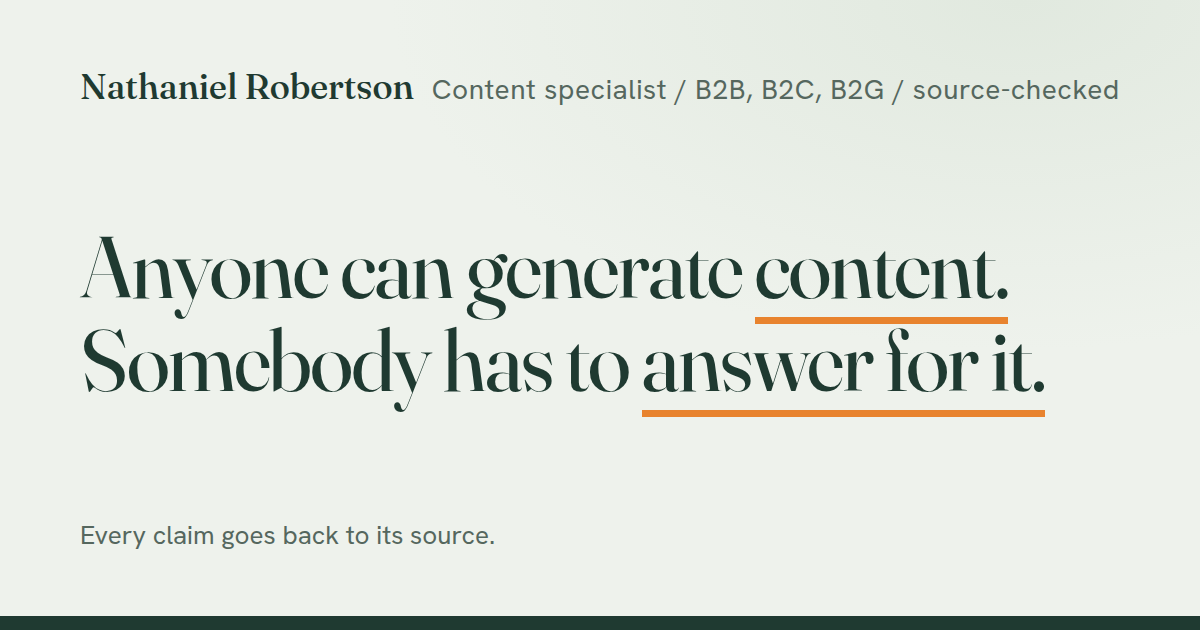
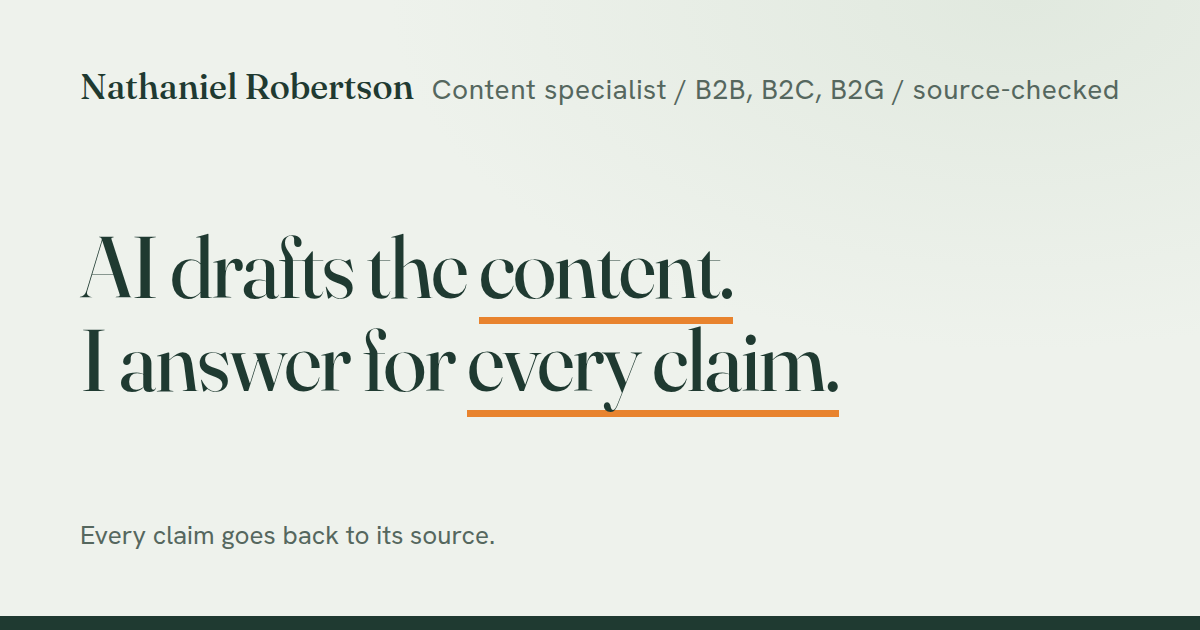
Hero: lead with the method (AI drafts, I answer), say who it is for, one proof, one next step
- Headline now "AI drafts the content. I answer for every claim.", replacing a first line that read as anti-LLM
- Lede names the audience (B2B, B2C, B2G teams) and keeps the existing method sentence; the typography note is removed
- One proof line made only of facts already on the page (four retained accounts in three countries; five concept pages, three with evidence pins); no results claimed
- One primary button, "Check a draft of yours", opens Lexiphon's draft check empty; the content audit stays as the secondary link
- Problem block no longer refers back to the old headline
- Social card re-rendered with the new headline (source in tools/og.html); image alt text, llms files, and sitemap caption updated
- "My voice" in Lexiphon now measures the intro paragraphs only, so it does not calibrate on the new hero draft

Claude-Session: https://claude.ai/code/session_013b56ZV5aXfWTKv9yQP1ema

Changed region(s): [[0.0617, 0.3619, 0.8942, 0.6635]]

diff --git a/index.html b/index.html
@@ -15,14 +15,14 @@
 <meta property="og:image:width" content="1200">
 <meta property="og:image:height" content="630">
 <meta property="og:image:type" content="image/png">
-<meta property="og:image:alt" content="Nathaniel Robertson, content specialist. Anyone can generate content. Somebody has to answer for it.">
+<meta property="og:image:alt" content="Nathaniel Robertson, content specialist. AI drafts the content. I answer for every claim.">
 <meta property="og:title" content="Nathaniel Robertson, content specialist">
 <meta property="og:description" content="Content specialist for source-checked B2B, B2C, and B2G writing, AI editing and governance, and content audits. Every claim goes back to its source.">
 <meta name="twitter:card" content="summary_large_image">
 <meta name="twitter:title" content="Nathaniel Robertson, content specialist">
 <meta name="twitter:description" content="Content specialist for source-checked B2B, B2C, and B2G writing, AI editing and governance, and content audits. Every claim goes back to its source.">
 <meta name="twitter:image" content="https://nrr-hash.github.io/Lexiphon/images/og.png">
-<meta name="twitter:image:alt" content="Nathaniel Robertson, content specialist. Anyone can generate content. Somebody has to answer for it.">
+<meta name="twitter:image:alt" content="Nathaniel Robertson, content specialist. AI drafts the content. I answer for every claim.">
 <script type="application/ld+json">{
  "@context": "https://schema.org",
  "@graph": [
@@ -405,7 +405,7 @@
 <meta name="mobile-web-app-capable" content="yes">
 <meta name="apple-mobile-web-app-title" content="Lexiphon">
 <meta name="referrer" content="strict-origin-when-cross-origin">
-<link rel="stylesheet" href="css/site.css?v=5566f63b">
+<link rel="stylesheet" href="css/site.css?v=140bd6d4">
 <link rel="stylesheet" href="css/studio.css?v=570e4f25" media="print" onload="this.media='all';window.dispatchEvent(new Event('resize'))">
 <noscript><link rel="stylesheet" href="css/studio.css?v=570e4f25"></noscript>
 </head>
@@ -425,15 +425,17 @@
 
 <main id="main" tabindex="-1">
 <div class="hero">
-  <h1 class="headline" id="headline" aria-label="Anyone can generate content. Somebody has to answer for it.">
-    <span class="line" data-ramp>Anyone can generate content.</span>
-    <span class="line" data-ramp data-seat="3">Somebody has to answer for it.</span>
+  <h1 class="headline" id="headline" aria-label="AI drafts the content. I answer for every claim.">
+    <span class="line" data-ramp>AI drafts the content.</span>
+    <span class="line" data-ramp data-seat="2">I answer for every claim.</span>
   </h1>
-  <p class="weight-note">In these two lines, type weight follows sentence weight: each line gets heavier towards the words that carry it, and a rule marks the seat.</p><div class="opening">
-    <p class="opening-lede">At heart, I’m a copywriter. In practice, I devise, produce, and scale digital content with frontier and open-weight models that I configure and check myself. The model learns your voice. I make sure it tells the truth.</p>
+  <div class="opening">
+    <p class="opening-lede">I’m a content specialist for B2B, B2C, and B2G teams. I devise, produce, and scale digital content with frontier and open-weight models that I configure and check myself. The model learns your voice.</p>
+    <p class="hero-proof">Currently on four retained accounts, in three countries. The concept pages below show the method, and three of them tie each claim to the note that backs it.</p>
+    <p class="hero-cta"><a class="btn" href="#studio" data-lx="check">Check a draft of yours</a><a class="hero-alt" href="mailto:nathan667@gmail.com?subject=Content%20audit">or ask for a content audit</a></p>
     <div class="dx">
       <p class="dx-kicker">The problem, in 2026</p>
-      <p class="dx-pull">Anyone can generate content, you say. Correct. The problem is that too little of it is worth reading, because “universal output” comes out too smooth and too generic to stick.</p>
+      <p class="dx-pull">Anyone can generate content now. The problem is that too little of it is worth reading, because “universal output” comes out too smooth and too generic to stick.</p>
       <div class="dx-grid">
         <div class="dx-col"><h2>How it sounds</h2><p>Sentences lack burst. The same words turn up everywhere. The tone is flat. “It’s not this, it’s that” is a construction LLMs lean on far too often.</p><h2>Whether it is true</h2><p>Some models invent facts more than others, and your claims quietly stop being true.</p></div>
         <div class="dx-col"><h2>Who it is for</h2><p>Pages swell into keyword nests built for ranking, read mostly by other machines scraping by. Lorem ipsum used to hold a page until the real words arrived. On too many pages now, the filler is the words. Look closer, and the same narrative patterns are everywhere.</p></div>
@@ -867,7 +869,7 @@
 <script src="js/lexicon.js?v=7a0beba2" defer></script>
 <script src="js/engine.js?v=fe467452" defer></script>
 <script src="js/brand.js?v=66087800" defer></script>
-<script src="js/studio.js?v=06500c46" defer></script>
+<script src="js/studio.js?v=82323bc8" defer></script>
 <script src="js/pwa.js?v=4f5d0457" defer></script>
 </body>
 </html>

diff --git a/js/studio.js b/js/studio.js
@@ -12,7 +12,7 @@ var prof = {tone:B.toneOf("Caregiver"), lead:"auto", person:"auto", rhythm:"auto
 
 /* "My voice": formality and enthusiasm measured from the opening of this page; humour and respect set by ear */
 function myVoice(){
-  var src = [].slice.call(document.querySelectorAll(".opening-lede, .intro p")).map(function(p){ return p.textContent; }).join(" ").replace(/\s+/g, " ");
+  var src = [].slice.call(document.querySelectorAll(".intro p")).map(function(p){ return p.textContent; }).join(" ").replace(/\s+/g, " ");
   var m = src ? B.measure(src) : null;
   return {tone:{casual:m ? m.tone.casual : 45, funny:15, irreverent:15, enthusiastic:m ? m.tone.enthusiastic : 25}, lead:"proof", person:"we", rhythm:"varied", words:"none", gaps:"flag", measured:m};
 }
@@ -189,9 +189,11 @@ $("lxReport").addEventListener("click", function(e){ if(!(e.target.closest && e.
   drawStart(); drawStartSoft(); $("lxNow").textContent = "Learnt from your draft: formality, enthusiasm, point of view, and rhythm. Humour and respect stay where you set them."; drawProfile(); run(); });
 
 /* ---------- mode ---------- */
-function setMode(m){ mode = m; $("lxWrite").hidden = m !== "write"; $("lxCheck").hidden = m !== "check";
+function setMode(m, noFill){ mode = m; $("lxWrite").hidden = m !== "write"; $("lxCheck").hidden = m !== "check";
   $("lxModes").querySelectorAll("button").forEach(function(b){ b.setAttribute("aria-pressed", b.dataset.mode === m ? "true" : "false"); });
-  if(m === "check" && !ta.value){ ta.value = lastPiece(); } run(); }
+  if(m === "check" && !ta.value && !noFill){ ta.value = lastPiece(); } run(); }
+/* the hero's button: open the draft check, empty, for the visitor's own text */
+document.addEventListener("click", function(e){ var a = e.target.closest && e.target.closest("[data-lx=check]"); if(!a) return; setMode("check", true); setTimeout(function(){ ta.focus({preventScroll:true}); }, 600); });
 $("lxModes").addEventListener("click", function(e){ var b = e.target.closest && e.target.closest("button[data-mode]"); if(b && b.dataset.mode !== mode) setMode(b.dataset.mode); });
 function run(){ if(mode === "write") runWrite(); else runCheck(); }
 

diff --git a/tools/og.html b/tools/og.html
@@ -1,0 +1,13 @@
+<!doctype html><meta charset="utf-8"><style>
+@font-face{font-family:"Fraunces";font-weight:200 900;src:url(../fonts/fraunces-latin-full-normal.woff2)}
+@font-face{font-family:"Hanken Grotesk";font-weight:100 900;src:url(../fonts/hanken-grotesk-latin-wght-normal.woff2)}
+html,body{margin:0;width:1200px;height:630px;background:#EEF2EC}
+.c{box-sizing:border-box;width:1200px;height:630px;padding:64px 80px;display:flex;flex-direction:column;justify-content:space-between;background:radial-gradient(900px 500px at 85% 0%,#E1E9DF,transparent 70%),#EEF2EC;color:#1F3A31;border-bottom:14px solid #1F3A31}
+.top{font-family:"Hanken Grotesk";font-size:28px;letter-spacing:.02em;display:flex;gap:18px;align-items:baseline}
+.top b{font-family:"Fraunces";font-variation-settings:"opsz" 60,"wght" 500;font-size:36px;letter-spacing:0}
+.top span{color:#55675E}
+h1{margin:0;font-family:"Fraunces";font-variation-settings:"opsz" 144,"wght" 420;font-size:88px;line-height:1.06;letter-spacing:-.02em;font-weight:420}
+u{text-decoration:none;background:linear-gradient(#E8832E,#E8832E) 0 100%/100% 7px no-repeat;padding-bottom:4px}
+.foot{font-family:"Hanken Grotesk";font-size:26px;color:#55675E}
+</style><div class="c"><div class="top"><b>Nathaniel Robertson</b><span>Content specialist / B2B, B2C, B2G / source-checked</span></div>
+<h1>AI drafts the <u>content.</u><br>I answer for <u>every claim.</u></h1><div class="foot">Every claim goes back to its source.</div></div>

diff --git a/css/site.css b/css/site.css
@@ -744,3 +744,10 @@ a,button,input,select,textarea,summary,label,[role="button"],[role="slider"]{tou
   background:color-mix(in srgb,var(--paper) 90%,transparent);backdrop-filter:blur(12px);-webkit-backdrop-filter:blur(12px);
   -webkit-mask-image:linear-gradient(#000 calc(100% - 28px),transparent);mask-image:linear-gradient(#000 calc(100% - 28px),transparent)}
 @media print{.mast::before{display:none}}
+
+/* hero: who it is for, one proof, one next step */
+.hero-proof{max-width:58ch;margin:0 auto 1.3rem;text-align:center;color:var(--slate);font-size:1rem;line-height:1.55;text-wrap:pretty}
+.hero-cta{display:flex;flex-wrap:wrap;align-items:center;justify-content:center;gap:.7rem 1.4rem;margin:0 0 clamp(2rem,3.5vw,2.8rem)}
+.hero-alt{color:var(--ink);font-weight:600;text-underline-offset:.2em}
+.hero-alt:hover{color:var(--amber-deep)}
+.hero-cta .btn{display:inline-flex;align-items:center}

diff --git a/sw.js b/sw.js
@@ -1,11 +1,11 @@
 /* Generated by tools/build_sw.py. Do not edit by hand. */
-const VERSION = "5cd13ca5dd";
+const VERSION = "7ee0bed582";
 const CACHE = "lexiphon-" + VERSION;
 const SHELL = [
   "./",
   "index.html",
   "manifest.json",
-  "css/site.css?v=5566f63b",
+  "css/site.css?v=140bd6d4",
   "css/studio.css?v=570e4f25",
   "js/page.js?v=1eadf0a2",
   "js/viewer.js?v=38aa58ba",
@@ -13,7 +13,7 @@ const SHELL = [
   "js/lexicon.js?v=7a0beba2",
   "js/engine.js?v=fe467452",
   "js/brand.js?v=66087800",
-  "js/studio.js?v=06500c46",
+  "js/studio.js?v=82323bc8",
   "js/pwa.js?v=4f5d0457",
   "fonts/fraunces-latin-full-italic.woff2",
   "fonts/fraunces-latin-full-normal.woff2",

diff --git a/tools/build_seo.py b/tools/build_seo.py
@@ -227,7 +227,7 @@ def head_tags(page, base):
     setmeta("property", "og:image:type", "image/png", '<meta property="og:image:height" content="630">')
     setmeta("name", "twitter:title", TITLE, '<meta name="twitter:card" content="summary_large_image">')
     setmeta("name", "twitter:description", DESCRIPTION, '<meta name="twitter:title" content="%s">' % html.escape(TITLE, quote=True))
-    setmeta("name", "twitter:image:alt", "Nathaniel Robertson, content specialist. Anyone can generate content. Somebody has to answer for it.", '<meta name="twitter:image" content="%simages/og.png">' % base)
+    setmeta("name", "twitter:image:alt", "Nathaniel Robertson, content specialist. AI drafts the content. I answer for every claim.", '<meta name="twitter:image" content="%simages/og.png">' % base)
     setmeta("name", "robots", "index, follow, max-image-preview:large, max-snippet:-1, max-video-preview:-1", '<meta name="author" content="%s">' % NAME)
     extra = [
         f'<link rel="alternate" hreflang="en-GB" href="{base}">',
@@ -317,7 +317,7 @@ def llms_texts(page, base, published, concepts, date):
     w = Walker()
     w.feed(page)
     w.lines = [("\n### " + l[4:]) if l.strip() in CARD_HEADS else l for l in w.lines]
-    prose = [l for l in w.lines if not l.startswith("# ") and "Anyone can generate content. Somebody has to answer for it." not in l]
+    prose = [l for l in w.lines if not l.startswith("# ") and "AI drafts the content. I answer for every claim." not in l]
     prose = [l for l in prose if "In these two lines, type weight follows" not in l and "If you have a few minutes" not in l]
     version = re.search(r"(?:Version|Release) ([0-9.]+), ([0-9]+ [A-Za-z]+ [0-9]{4})", page)
     ver = f"version {version.group(1)}, {version.group(2)}" if version else f"modified {date}"
@@ -348,7 +348,7 @@ How to read this site:
     full = [f"# {NAME}, content specialist", "", f"> {DESCRIPTION}", "",
             f"Source: {base} ({ver}). Generated from the page by tools/build_seo.py on {date}. The page is written in the first person by {NAME}.", "",
             "Not included: the interface, the demonstration texts, and three exhibits that are not his writing (an AI-written bio, a quotation from Cambridge Audio's own product page, and the sample passages in Telltale and Lexiphon).", "",
-            "## The position", "Anyone can generate content. Somebody has to answer for it."]
+            "## The position", "AI drafts the content. I answer for every claim."]
     full += prose
     full += ["", "## How I work", "Every piece of work was put through three tests: how it sounds, whether it is true, and who it is for. Five live demonstrations on the page show the tests, and Lexiphon shows all three."]
     full += ["", "## Published work", "Each piece is live client work, checked against the client's own source material and signed off by the client."]
@@ -365,7 +365,7 @@ How to read this site:
 
 
 def sitemap(base, date, concepts):
-    imgs = [(base + "images/og.png", "Nathaniel Robertson, content specialist. Anyone can generate content. Somebody has to answer for it.")]
+    imgs = [(base + "images/og.png", "Nathaniel Robertson, content specialist. AI drafts the content. I answer for every claim.")]
     imgs += [(base + c[5], c[4]) for c in concepts]
     rows = "\n".join(f"    <image:image>\n      <image:loc>{esc(u)}</image:loc>\n      <image:caption>{esc(c)}</image:caption>\n    </image:image>" for u, c in imgs)
     return f"""<?xml version="1.0" encoding="UTF-8"?>

diff --git a/README.md b/README.md
@@ -28,6 +28,7 @@ Live: https://nrr-hash.github.io/Lexiphon/
 | `sw.js` | The service worker, generated by `tools/build_sw.py`. Precaches the shell so repeat visits and offline visits work. |
 | `llms.txt`, `llms-full.txt` | Plain-text summaries for answer engines, generated from the page by `tools/build_seo.py`. |
 | `tools/build_sw.py` | Puts a content hash on every local stylesheet and script link, then regenerates `sw.js` from the page's own links. Run it after any change to the site: the hashes give changed files new addresses, and the cache name is a hash of the shell. |
+| `tools/og.html` | The source of the social card (`images/og.png`). Open it in any headless browser at 1200 by 630 to render the image again after the headline changes. |
 | `tools/make_icons.py` | Draws the app icons from code. |
 | `tools/build_seo.py` | Regenerates the JSON-LD, the head tags, `llms.txt`, `llms-full.txt`, `sitemap.xml`, and `robots.txt`. `--check` writes nothing and reports whether they are stale. |
 | `tools/check_seo.py` | Checks the structured data, FAQ parity, anchors, heading outline, and generated files. `--schema PATH` also checks property names against schema-dts' `schema.d.ts`. |
